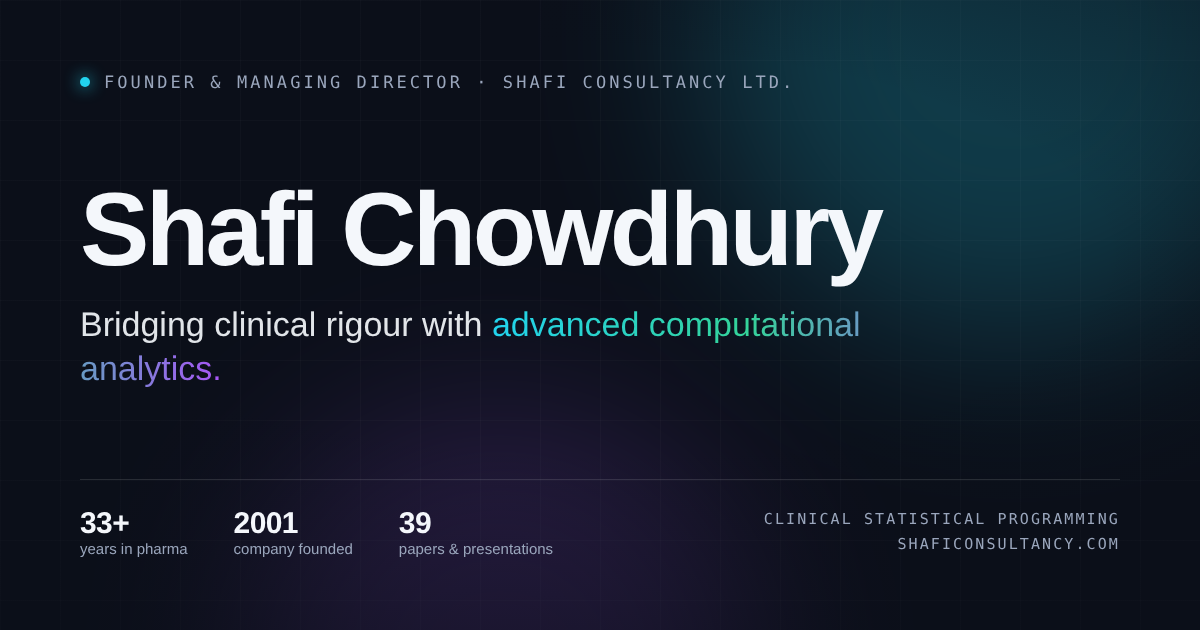
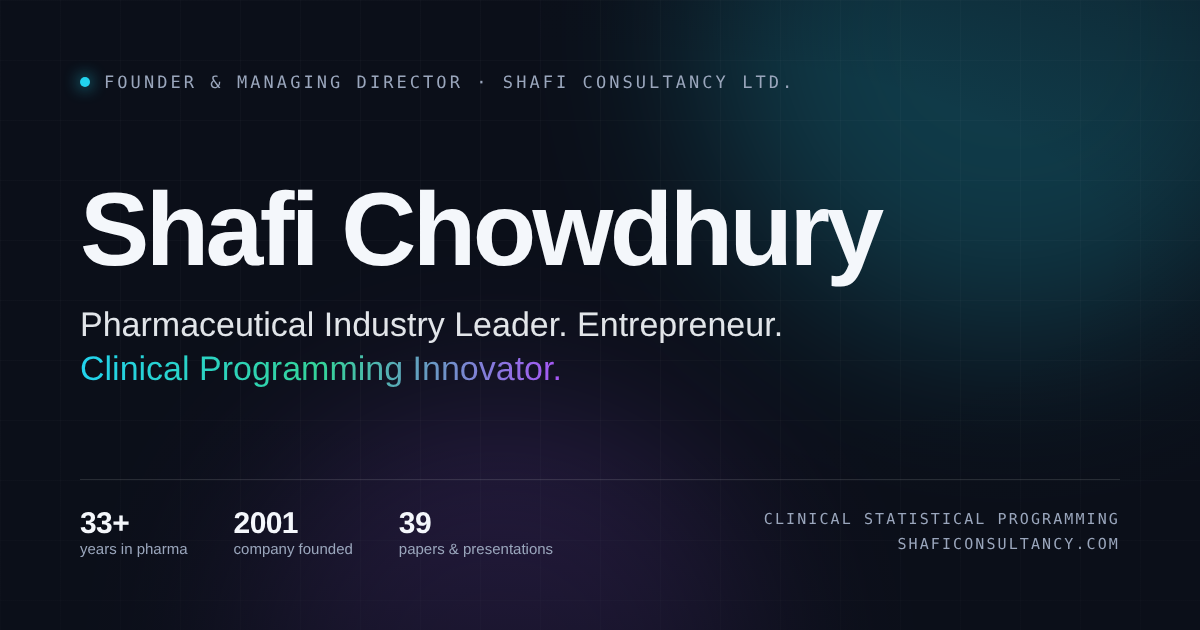
Rewrite the hero copy around leadership, enterprise and innovation
Also updates the home page's social description and the share image to
carry the same three-part positioning.

Claude-Session: https://claude.ai/code/session_012u2WizJfLZFkDHf2EL9QfP

Changed region(s): [[0.0617, 0.4825, 0.7092, 0.6032]]

diff --git a/index.html b/index.html
@@ -16,7 +16,7 @@
 <meta property="og:locale" content="en_GB">
 <meta property="og:url" content="https://mokhfur.github.io/SC_Personal_Exp/">
 <meta property="og:title" content="Shafi Chowdhury · Founder &amp; Managing Director, Shafi Consultancy Ltd.">
-<meta property="og:description" content="Approximately 33 years in the pharmaceutical industry, bridging clinical rigour with advanced computational analytics.">
+<meta property="og:description" content="Pharmaceutical industry leader, entrepreneur and clinical programming innovator, with over 33 years in the industry and a specialist company founded in 2001.">
 <meta property="og:image" content="https://mokhfur.github.io/SC_Personal_Exp/assets/og-shafi-chowdhury.png">
 <meta property="og:image:type" content="image/png">
 <meta property="og:image:width" content="1200">
@@ -24,7 +24,7 @@
 <meta property="og:image:alt" content="Shafi Chowdhury, Founder and Managing Director of Shafi Consultancy Ltd., with the line 'Bridging clinical rigour with advanced computational analytics'">
 <meta name="twitter:card" content="summary_large_image">
 <meta name="twitter:title" content="Shafi Chowdhury · Founder &amp; Managing Director, Shafi Consultancy Ltd.">
-<meta name="twitter:description" content="Approximately 33 years in the pharmaceutical industry, bridging clinical rigour with advanced computational analytics.">
+<meta name="twitter:description" content="Pharmaceutical industry leader, entrepreneur and clinical programming innovator, with over 33 years in the industry and a specialist company founded in 2001.">
 <meta name="twitter:image" content="https://mokhfur.github.io/SC_Personal_Exp/assets/og-shafi-chowdhury.png">
 <meta name="twitter:image:alt" content="Shafi Chowdhury, Founder and Managing Director of Shafi Consultancy Ltd., with the line 'Bridging clinical rigour with advanced computational analytics'">
 <meta property="profile:first_name" content="Shafi">
@@ -305,8 +305,8 @@
     <div class="max-w-[720px] grid gap-7">
       <p class="kicker hero-in" style="--d:0"><span class="dot dot-cy"></span>Founder &amp; Managing Director · Shafi Consultancy Ltd.</p>
       <h1 class="h-display hero-in text-[clamp(2.9rem,7.6vw,6rem)] font-semibold leading-[.98]" style="--d:1">Shafi<br>Chowdhury</h1>
-      <p class="h-display hero-in text-[clamp(1.35rem,2.6vw,2rem)] font-light leading-[1.25] text-white/90" style="--d:2">Bridging clinical rigour with <span class="grad-text font-normal">advanced computational analytics.</span></p>
-      <p class="hero-in measure text-[17px] leading-[1.75] text-mute" style="--d:3">In the pharmaceutical industry since 1993. Since founding <a href="https://www.shaficonsultancy.com/" target="_blank" rel="noopener" class="prose-link">Shafi Consultancy</a> in 2001, Shafi has led a specialist clinical programming company serving pharmaceutical sponsors and CROs, from CDISC-standard data and TLF reporting to analysis-ready PK/PD datasets for NONMEM.</p>
+      <p class="h-display hero-in text-[clamp(1.3rem,2.5vw,1.9rem)] font-light leading-[1.3] text-white/90" style="--d:2">Pharmaceutical Industry Leader. Entrepreneur. <span class="grad-text font-normal">Clinical Programming Innovator.</span></p>
+      <p class="hero-in measure text-[17px] leading-[1.75] text-mute" style="--d:3">With over 33 years in the pharmaceutical industry, Shafi brings together clinical programming expertise, entrepreneurial vision and business leadership. Since founding <a href="https://www.shaficonsultancy.com/" target="_blank" rel="noopener" class="prose-link">Shafi Consultancy</a> in 2001, he has built a specialist clinical programming partner supporting pharmaceutical companies, Biotech and CROs through quality-driven clinical reporting, CDISC standards, PK/PD data solutions and software solutions.</p>
       <div class="hero-in flex flex-wrap gap-3" style="--d:4">
         <a href="#contact" class="btn btn-primary">Talk to Shafi <i data-lucide="arrow-down"></i></a>
         <a href="https://www.shaficonsultancy.com/" target="_blank" rel="noopener" class="btn btn-ghost">Visit Shafi Consultancy <i data-lucide="arrow-up-right"></i></a>
